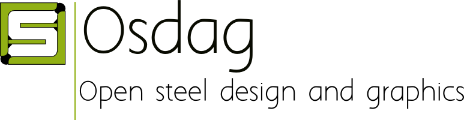
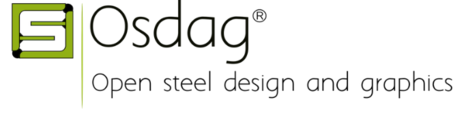
update help menu

Changed region(s): [[0.0, 0.0, 0.6336, 1.0], [0.6638, 0.6, 1.0, 0.9], [0.7845, 0.875, 0.8147, 0.925]]

diff --git a/gui/ui_aboutosdag.py b/gui/ui_aboutosdag.py
@@ -34,20 +34,19 @@ class Ui_AboutOsdag(object):
 "<html><head><meta name=\"qrichtext\" content=\"1\" /><style type=\"text/css\">\n"
 "p, li { white-space: pre-wrap; }\n"
 "</style></head><body style=\" font-family:\'Arial\'; font-size:7.8pt; font-weight:400; font-style:normal;\">\n"
-"<p style=\" margin-top:0px; margin-bottom:0px; margin-left:0px; margin-right:0px; -qt-block-indent:0; text-indent:0px;\"><span style=\" font-family:\'monospace, monospace\'; font-size:8pt;\">Osdag </span></p>\n"
-"<p align=\"justify\" style=\" margin-top:0px; margin-bottom:0px; margin-left:0px; margin-right:0px; -qt-block-indent:0; text-indent:0px;\"><span style=\" font-family:\'MS Shell Dlg 2\'; font-size:8pt;\">Version: 2018.06.a.3839</span></p>\n"
+"<p style=\" margin-top:0px; margin-bottom:0px; margin-left:0px; margin-right:0px; -qt-block-indent:0; text-indent:0px;\"><span style=\" font-family:\'monospace, monospace\'; font-size:8pt;\">Osdag&#169; </span></p>\n"
+"<p align=\"justify\" style=\" margin-top:0px; margin-bottom:0px; margin-left:0px; margin-right:0px; -qt-block-indent:0; text-indent:0px;\"><span style=\" font-family:\'MS Shell Dlg 2\'; font-size:8pt;\">Version: 2021.02.a</span></p>\n"
 "<p align=\"justify\" style=\"-qt-paragraph-type:empty; margin-top:0px; margin-bottom:0px; margin-left:0px; margin-right:0px; -qt-block-indent:0; text-indent:0px; font-family:\'MS Shell Dlg 2\'; font-size:8pt;\"><br /></p>\n"
-"<p align=\"justify\" style=\" margin-top:0px; margin-bottom:0px; margin-left:0px; margin-right:0px; -qt-block-indent:0; text-indent:0px;\"><span style=\" font-family:\'monospace, monospace\'; font-size:8pt;\">Osdag is a cross-platform, free, and open-source software for the design and detailing of steel structures, following the Indian Standard IS 800:2007. Osdag is primarily built using Python other Python-based FOSS tools, such as, PyQt, OpenCascade, PythonOCC, SQLite. It is developed by the Osdag team at IIT Bombay under the FOSSEE initiative. </span></p>\n"
+"<p align=\"justify\" style=\" margin-top:0px; margin-bottom:0px; margin-left:0px; margin-right:0px; -qt-block-indent:0; text-indent:0px;\"><span style=\" font-family:\'monospace, monospace\'; font-size:8pt;\">Osdag is a cross-platform, free, and open-source software for the design and detailing of steel structures, following the Indian Standard IS 800:2007. Osdag is primarily built using Python other Python-based FOSS tools, such as, PyQt, OpenCascade, PythonOCC, SQLite. It allows the user to design steel connections, members and systems using a graphical user interface. The interactive GUI provides a 3D visualisation of the designed component and an option to export the CAD model to any drafting software for the creation of construction/fabrication drawings. The design is typically optimised following industry best practices. Osdag is developed by the Osdag team at IIT Bombay under the initiative of FOSSEE funded by the Ministry of Education (MoE), Government of India. </span></p>\n"
 "<p align=\"justify\" style=\"-qt-paragraph-type:empty; margin-top:0px; margin-bottom:0px; margin-left:0px; margin-right:0px; -qt-block-indent:0; text-indent:0px; font-family:\'MS Shell Dlg 2\'; font-size:8pt;\"><br /></p>\n"
-"<p align=\"justify\" style=\" margin-top:0px; margin-bottom:0px; margin-left:0px; margin-right:0px; -qt-block-indent:0; text-indent:0px;\"><span style=\" font-family:\'monospace, monospace\'; font-size:8pt;\">The current version of Osdag contains the shear connection modules and two moment connection modules.</span></p>\n"
+"<p align=\"justify\" style=\" margin-top:0px; margin-bottom:0px; margin-left:0px; margin-right:0px; -qt-block-indent:0; text-indent:0px;\"><span style=\" font-family:\'monospace, monospace\'; font-size:8pt;\">This version of Osdag contains the Shear Connection modules, Moment Connection modules and the Tension Member modules.</span></p>\n"
 "<p align=\"justify\" style=\"-qt-paragraph-type:empty; margin-top:0px; margin-bottom:0px; margin-left:0px; margin-right:0px; -qt-block-indent:0; text-indent:0px; font-family:\'MS Shell Dlg 2\'; font-size:8pt;\"><br /></p>\n"
-"<p align=\"justify\" style=\" margin-top:0px; margin-bottom:0px; margin-left:0px; margin-right:0px; -qt-block-indent:0; text-indent:0px;\"><span style=\" font-family:\'MS Shell Dlg 2\'; font-size:8pt;\">(c) Copyright Osdag contributors 2017.</span></p>\n"
+"<p align=\"justify\" style=\" margin-top:0px; margin-bottom:0px; margin-left:0px; margin-right:0px; -qt-block-indent:0; text-indent:0px;\"><span style=\" font-family:\'MS Shell Dlg 2\'; font-size:8pt;\">&#169; Copyright Osdag contributors 2017.</span></p>\n"
 "<p align=\"justify\" style=\" margin-top:0px; margin-bottom:0px; margin-left:0px; margin-right:0px; -qt-block-indent:0; text-indent:0px;\"><span style=\" font-family:\'MS Shell Dlg 2\'; font-size:8pt;\">This program comes with ABSOLUTELY NO WARRANTY. This is a free software, and you are welcome to redistribute it under certain conditions. See the License.txt file for details regarding the license.</span></p>\n"
 "<p align=\"justify\" style=\"-qt-paragraph-type:empty; margin-top:0px; margin-bottom:0px; margin-left:0px; margin-right:0px; -qt-block-indent:0; text-indent:0px; font-family:\'MS Shell Dlg 2\'; font-size:8pt;\"><br /></p>\n"
-"<p align=\"justify\" style=\" margin-top:0px; margin-bottom:0px; margin-left:0px; margin-right:0px; -qt-block-indent:0; text-indent:0px;\"><span style=\" font-family:\'MS Shell Dlg 2\'; font-size:8pt;\">Authors: Osdag Team </span><a href=\"http://osdag.fossee.in\"><span style=\" font-family:\'MS Shell Dlg 2\'; font-size:8pt; text-decoration: underline; color:#0000ff;\">https://osdag.fossee.in/team</span></a></p>\n"
-"<p align=\"justify\" style=\" margin-top:0px; margin-bottom:0px; margin-left:0px; margin-right:0px; -qt-block-indent:0; text-indent:0px;\"><span style=\" font-family:\'MS Shell Dlg 2\'; font-size:8pt;\">Visit </span><a href=\"http://osdag.fossee.in\"><span style=\" font-family:\'MS Shell Dlg 2\'; font-size:8pt; text-decoration: underline; color:#0000ff;\">https://osdag.fossee.in</span></a><span style=\" font-family:\'MS Shell Dlg 2\'; font-size:8pt;\"> for more information.</span></p>\n"
+"<p align=\"justify\" style=\" margin-top:0px; margin-bottom:0px; margin-left:0px; margin-right:0px; -qt-block-indent:0; text-indent:0px;\"><span style=\" font-family:\'MS Shell Dlg 2\'; font-size:8pt;\">Authors: Osdag Team </span><a href=\"https://osdag.fossee.in/team\"><span style=\" font-family:\'MS Shell Dlg 2\'; font-size:8pt; text-decoration: underline; color:#0000ff;\">https://osdag.fossee.in/team</span></a></p>\n"
+"<p align=\"justify\" style=\" margin-top:0px; margin-bottom:0px; margin-left:0px; margin-right:0px; -qt-block-indent:0; text-indent:0px;\"><span style=\" font-family:\'MS Shell Dlg 2\'; font-size:8pt;\">Visit </span><a href=\"https://osdag.fossee.in/\"><span style=\" font-family:\'MS Shell Dlg 2\'; font-size:8pt; text-decoration: underline; color:#0000ff;\">https://osdag.fossee.in</span></a><span style=\" font-family:\'MS Shell Dlg 2\'; font-size:8pt;\"> for more information.</span></p>\n"
 "<p align=\"justify\" style=\" margin-top:0px; margin-bottom:0px; margin-left:0px; margin-right:0px; -qt-block-indent:0; text-indent:0px;\"><span style=\" font-family:\'MS Shell Dlg 2\'; font-size:8pt;\">----------------------------------------------------</span></p>\n"
-"<p align=\"justify\" style=\" margin-top:0px; margin-bottom:0px; margin-left:0px; margin-right:0px; -qt-block-indent:0; text-indent:0px;\"><a href=\"ResourceFiles/License/License.txt\"><span style=\" font-size:8pt; text-decoration: underline; color:#0000ff;\">Licensing Information</span></a></p>\n"
 "<p style=\"-qt-paragraph-type:empty; margin-top:0px; margin-bottom:0px; margin-left:0px; margin-right:0px; -qt-block-indent:0; text-indent:0px; font-size:8pt; text-decoration: underline; color:#0000ff;\"><br /></p>\n"
 "<p align=\"justify\" style=\" margin-top:0px; margin-bottom:0px; margin-left:0px; margin-right:0px; -qt-block-indent:0; text-indent:0px;\"><span style=\" font-family:\'MS Shell Dlg 2\'; font-size:8pt; color:#8a8a8a;\">Osdag</span><span style=\" font-family:\'arial,sans-serif\'; font-size:8pt; color:#8a8a8a;\">®</span><span style=\" font-family:\'MS Shell Dlg 2\'; font-size:8pt; color:#8a8a8a;\"> and the Osdag logo are registered trademarks of Indian Institute of Technology Bombay (IIT Bombay).</span></p></body></html>"))
 

diff --git a/osdagMainPage.py b/osdagMainPage.py
@@ -830,11 +830,12 @@ if __name__ == '__main__':
     #my_settings = QtCore.QSettings('FOSSEE','osdag')
     #appcrash.set_qsettings(my_settings)
     '''
-    If you want to save your github username and password across each sessions, so that you dont have to enter it each time you report an issue .
-    Simply uncomment above two line. To use QSetings we need to give an organisation name and the application name(Compulsory).
+    You can save your GitHub username and password across each sessions so that you don't have to enter it each time you report an issue.
+    
+    Simply uncomment above two lines. To use QSetings we need to give an organisation name and the application name (compulsory).
 
-    As an example 'FOSSEE' is organisation name and 'osdag' is the application name in the above QSettings. Feel free to change it accordingly, but try to keep it fix
-    don't change it frequently.
+    For example, 'FOSSEE' is an organisation name and 'Osdag' is the application name in the above QSettings. Feel free to change them to suit your requirement, but try to keep it constant.
+    Do not change it frequently.
 
     '''
 

diff --git a/gui/ui_template.py b/gui/ui_template.py
@@ -2706,7 +2706,7 @@ class Window(QMainWindow):
         self.actionSave_current_image.setShortcut(_translate("MainWindow", "Alt+I"))
         self.actionSave_log_messages.setText(_translate("MainWindow", "Save log messages"))
         self.actionSave_log_messages.setShortcut(_translate("MainWindow", "Alt+M"))
-        self.actionCreate_design_report.setText(_translate("MainWindow", "Create Design Report"))
+        self.actionCreate_design_report.setText(_translate("MainWindow", "Create design report"))
         self.actionCreate_design_report.setShortcut(_translate("MainWindow", "Alt+C"))
         self.actionQuit_fin_plate_design.setText(_translate("MainWindow", "Quit fin plate design"))
         self.actionSave_Front_View.setText(_translate("MainWindow", "Save front view"))

diff --git a/update_version_check.py b/update_version_check.py
@@ -26,8 +26,8 @@ class Update():
             # decoded_line = line.decode("utf-8")
             # new_version = decoded_line.split("=")[1]
             if version != self.old_version:
-                msg = 'Current version:'+ self.old_version+'<br>'+'Latest Version'+ str(version)+'<br>'+\
-                      'Update available<a href=\"https://imatrixhosting.in/deepthi/\">Click to downlaod<a/>'
+                msg = 'Current version: '+ self.old_version+'<br>'+'Latest version '+ str(version)+'<br>'+\
+                      'Update available: <a href=\"https://imatrixhosting.in/deepthi/\">click here to downlaod<a/>'
             else:
                 msg = 'Already up to date'
             return msg

diff --git a/_version.py b/_version.py
@@ -1,1 +1,1 @@
-__version__ = "2020.07.a.edb3"
+__version__ = "2021.02.a"
